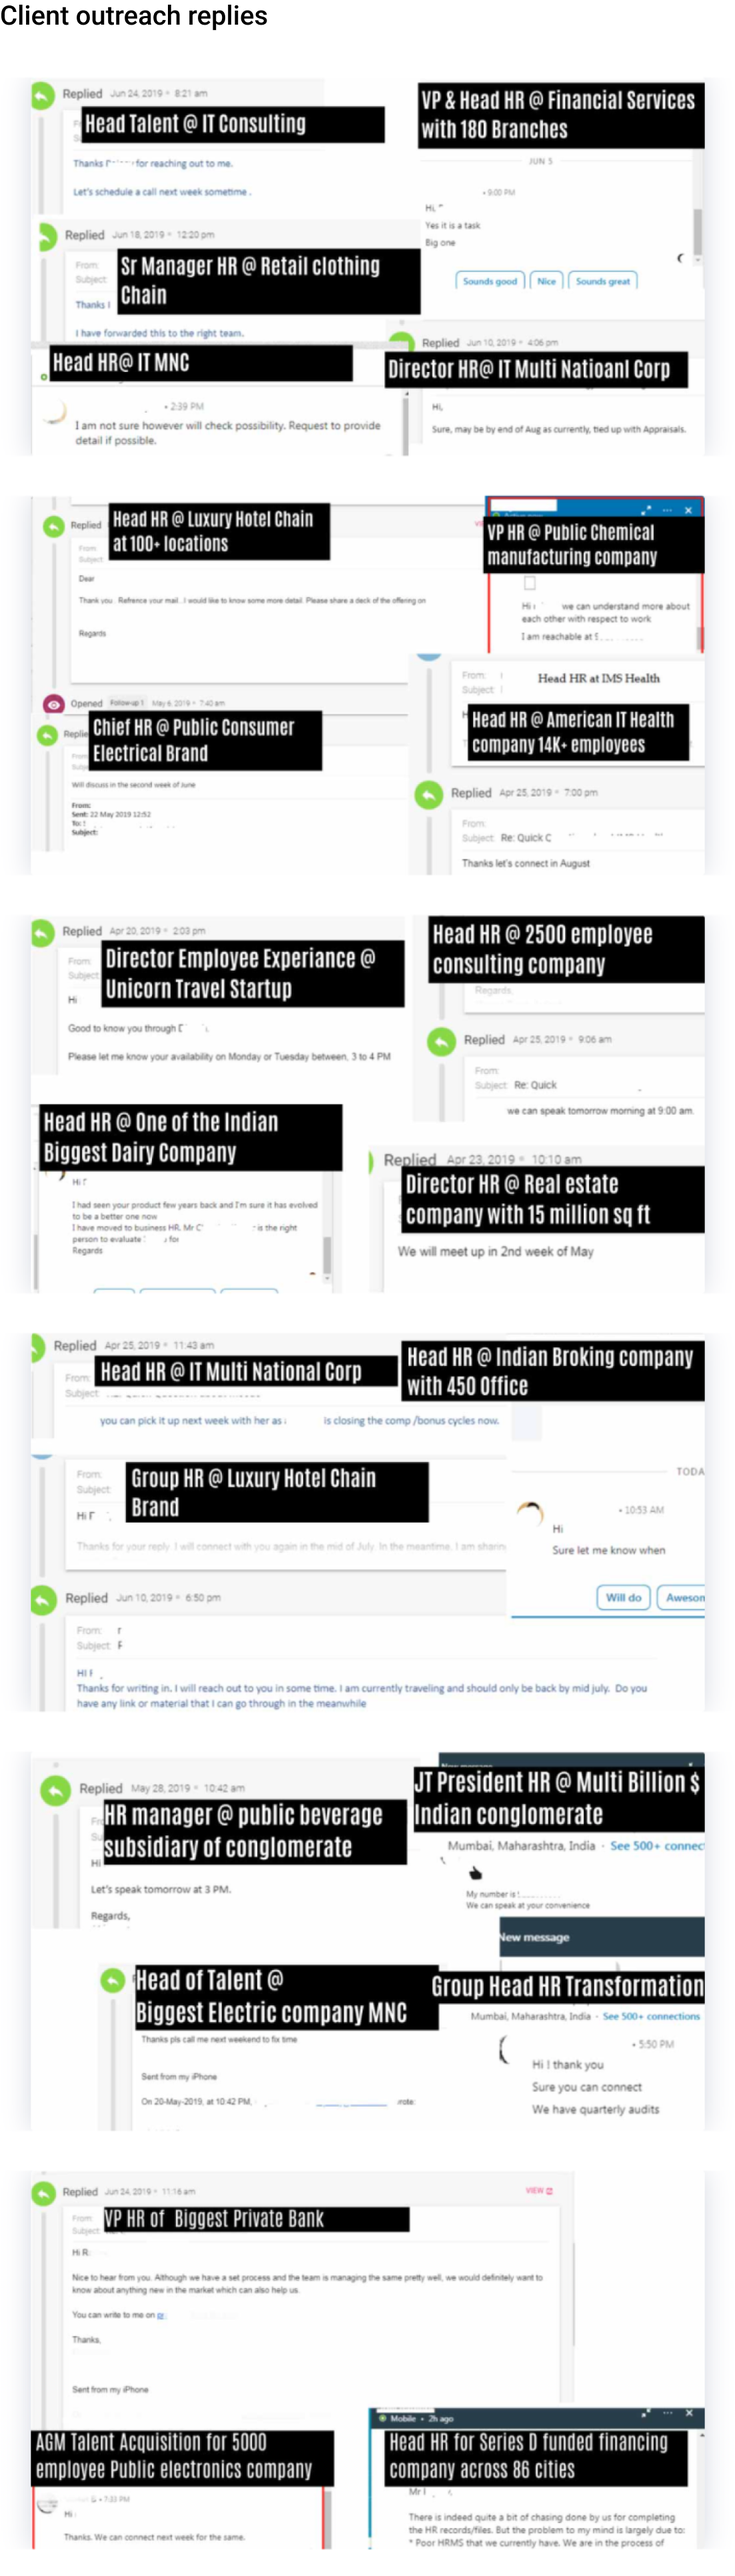
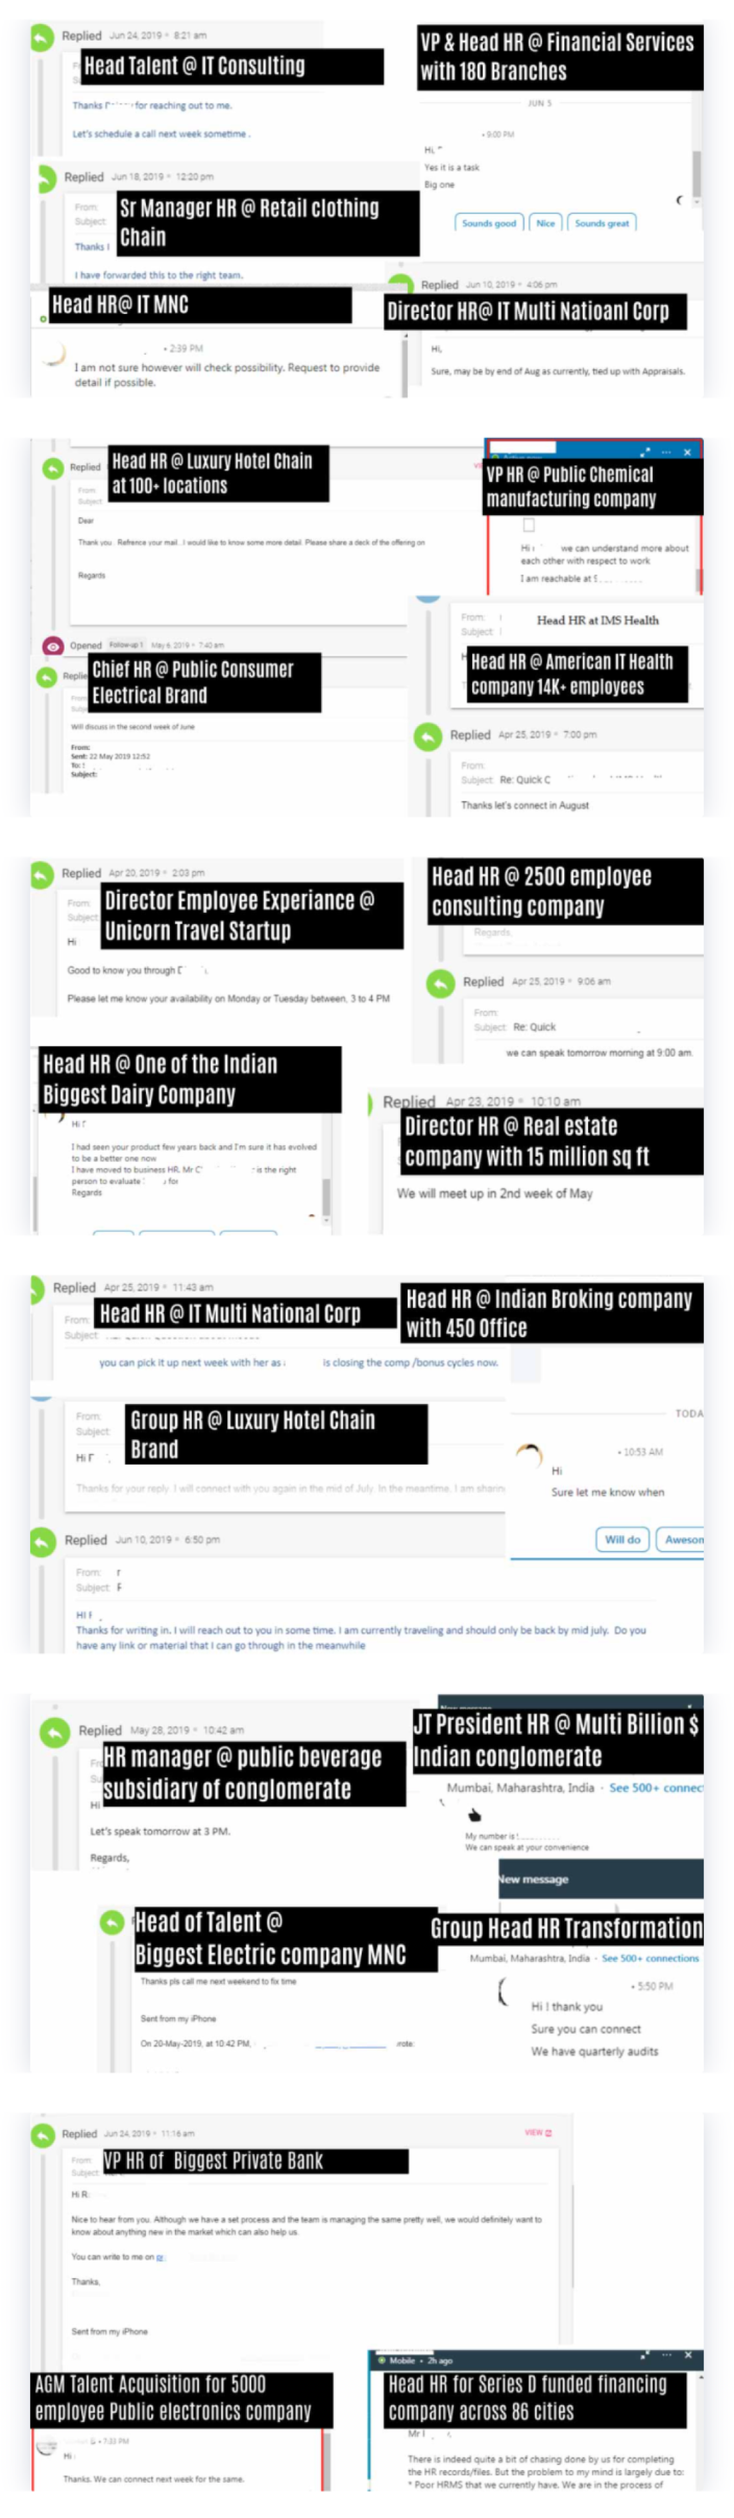
cs2 final

diff --git a/src/pages/InternationalInstitutes.js b/src/pages/InternationalInstitutes.js
@@ -50,9 +50,8 @@ const Home = (props) => {
                   <p>•Inability to efficiently manage the ‘No, thank you’ responses with cross-sell &  down-sell offers.</p>
                   <p>•Did not resort to Account-based marketing from the very beginning.</p>
 
-                  
-
-                 
+                  <h2 style={{fontFamily:"Roboto",margin:"0.8rem" }}>Client outreach replies</h2>  
+                  <div className={styles.BlogimageContainer}><Img className={styles.image} fluid={props.data.Img1.childImageSharp.fluid}/></div>
 
                 </div>
               </div>
@@ -109,7 +108,7 @@ export const BlogLedgenQuery = graphql`
         }
       }
 
-      Img1: file(relativePath: { eq: "IndianEnterpriseImg.png" }) {
+      Img1: file(relativePath: { eq: "InternationalInstitutesImg.png" }) {
         childImageSharp {
           fluid(maxWidth: 1000) {
             ...GatsbyImageSharpFluid
